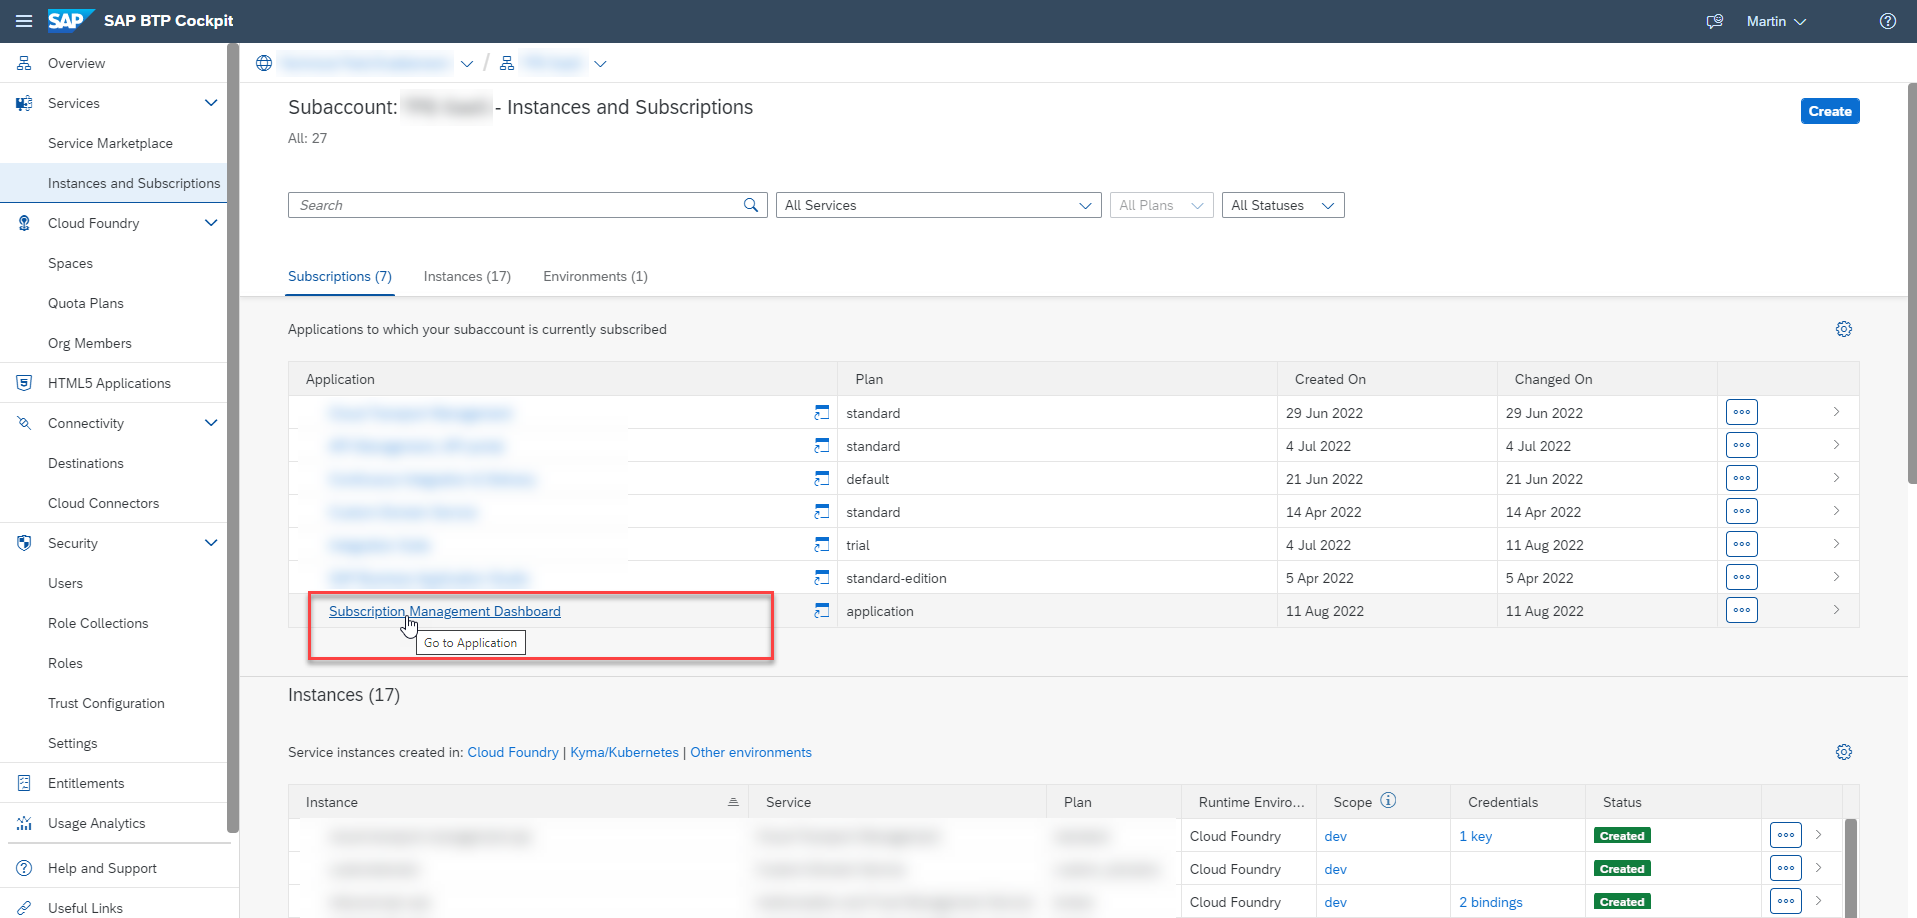
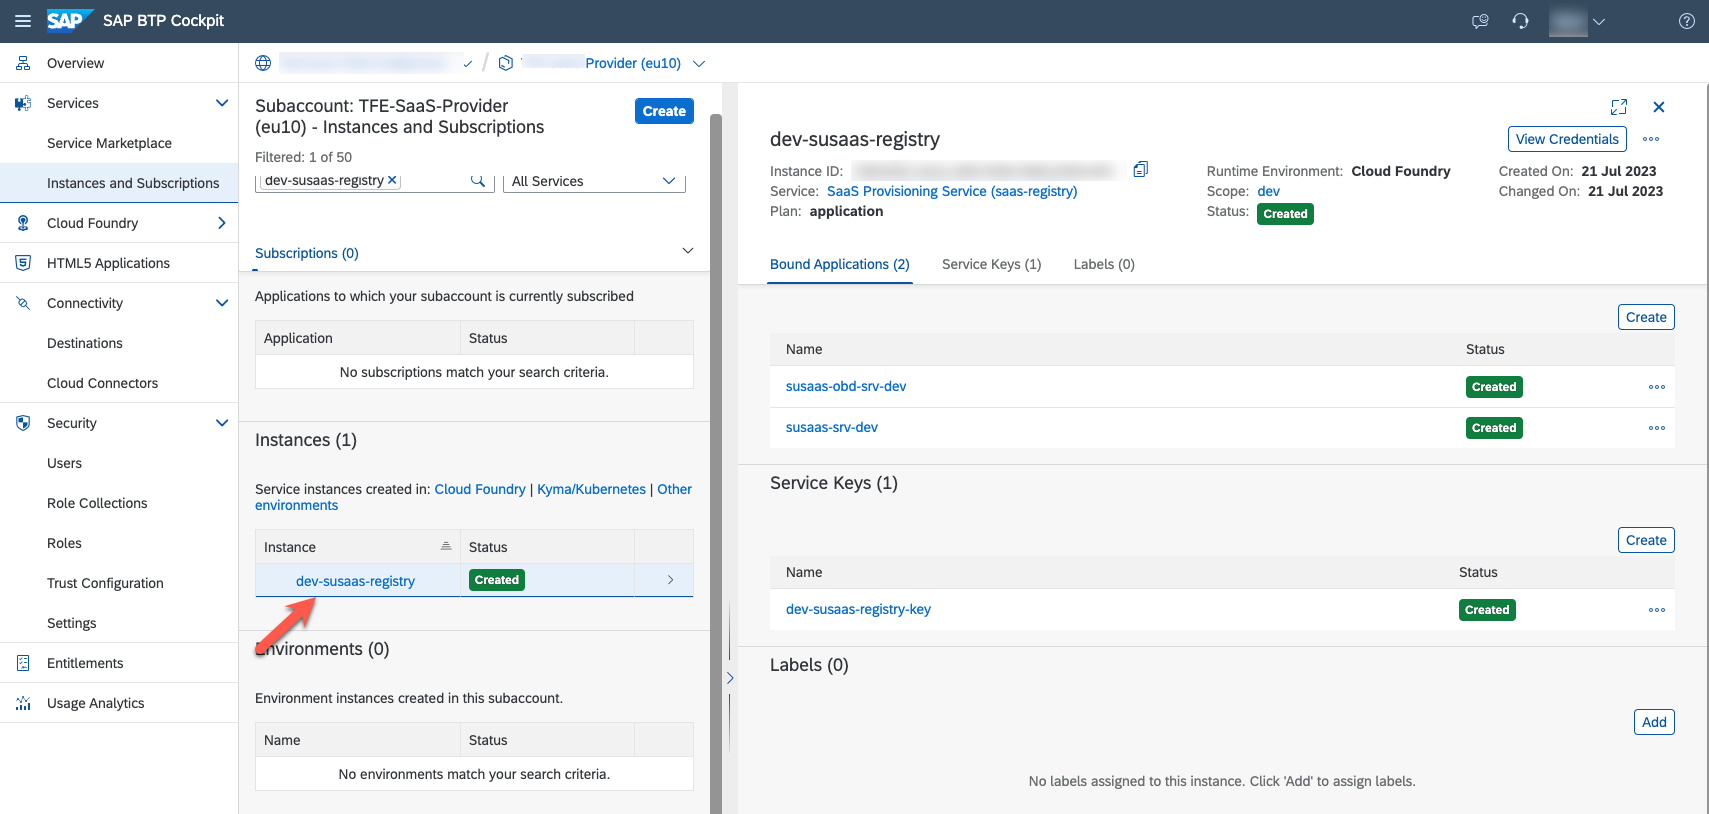
Subscription management screenshot update

diff --git a/docu/4-expert/manage-tenant-containers/README.md b/docu/4-expert/manage-tenant-containers/README.md
@@ -34,9 +34,9 @@ Please use this approach for learning purposes only e.g., when working in a deve
 
 ## 3. Get the database container credentials
 
-3.1. Identify the tenant ID of the respective consumer tenant (in this case **thebestrun**) using the Subscription Management Dashboard.
+3.1. Identify the tenant ID of the respective consumer tenant (in this case **thebestrun**) using the SaaS Registry service which is binded to your multitenant application.
 
-> **Hint** - Make sure your SAP BTP subaccount user has the required roles to access the Subscription Management Dashboard. If necessary, create and assign a new role collection containing the required roles. 
+> **Hint** - Make sure your SAP BTP subaccount user has the required roles to access the Subscription Management Dashboard of SaaS Registry. If necessary, create and assign a new role collection containing the required roles. You can find the relevant roles in the [official documentation](https://help.sap.com/docs/btp/sap-business-technology-platform/using-subscription-management-dashboard). 
 
 [<img src="./images/manage_010.png" width="500" />](./images/manage_010.png?raw=true)
 
